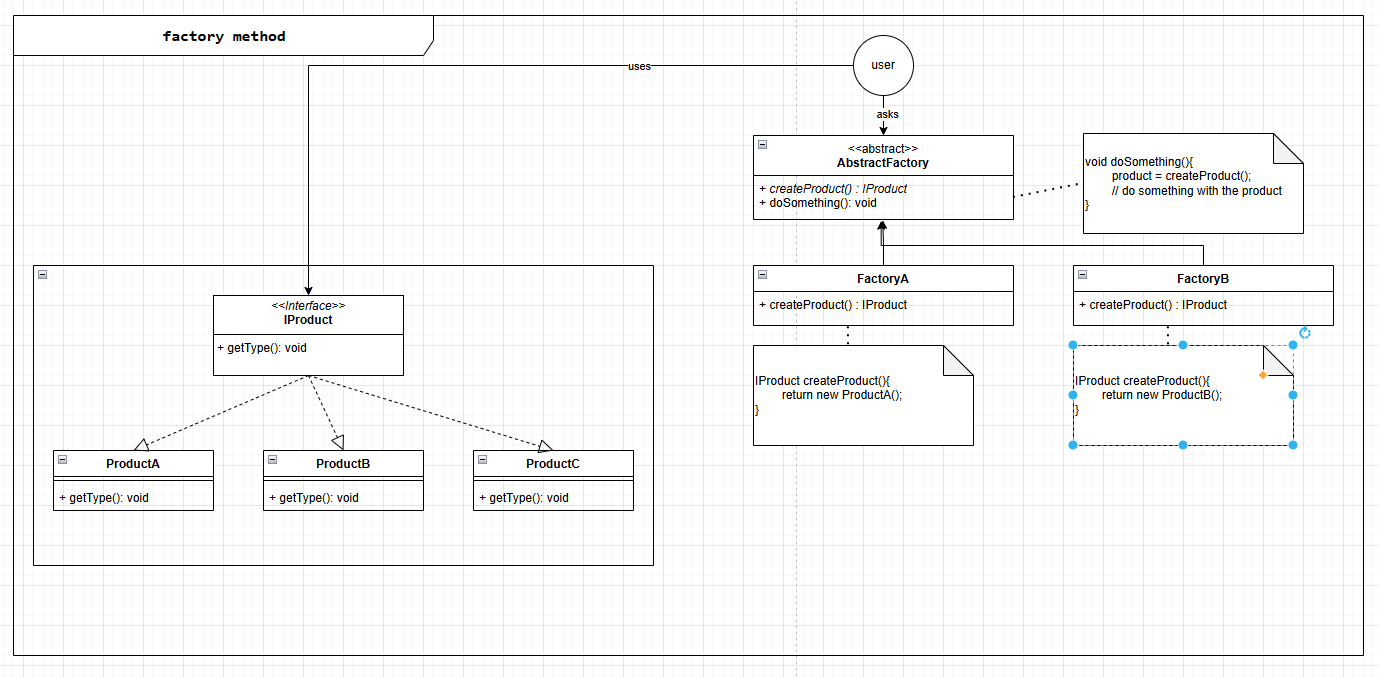
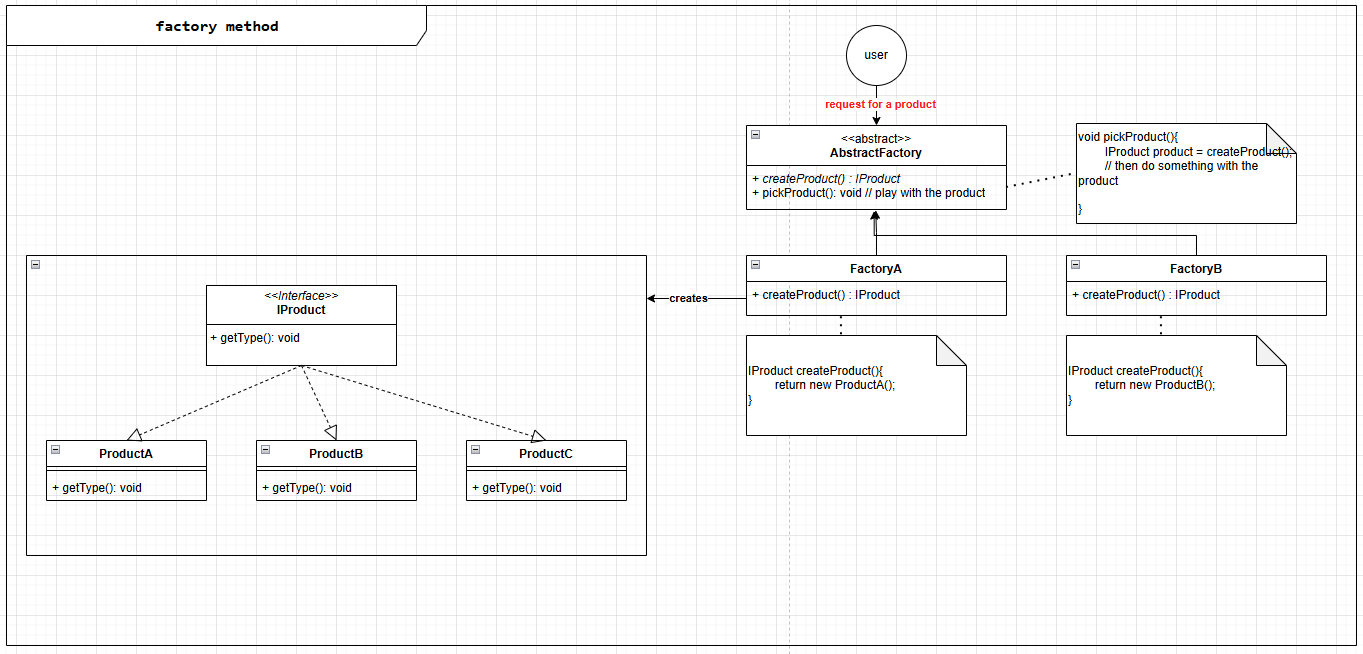
update java design patterns

diff --git a/content/posts/java-design-pattern.md b/content/posts/java-design-pattern.md
@@ -177,7 +177,7 @@ package design.patterns.factory.method;
 public abstract class AbstractFactory {
 	public abstract IProduct createProduct();
 	
-	public void doSomething() {
+	public void pickProduct() {
 		IProduct product = createProduct();
 		System.out.println("Do something with" + product.getType());
 	}
@@ -223,14 +223,12 @@ public class MainTestFactory {
 
 	public static void main(String[] args) {
 		AbstractFactory factoryA = new FactoryA();
-		factoryA.doSomething();
-		
-		AbstractFactory factoryB = new FactoryB();
-		factoryB.doSomething();
-		
-		AbstractFactory factoryC = new FactoryC();
-		factoryC.doSomething();
-				
+		IProduct productA = factoryA.createProduct();
+		factoryA.pickProduct();
+
+		AbstractFactory factoryA1 = new FactoryB();
+		IProduct productA1 = factoryA1.createProduct();
+		factoryA1.pickProduct();
 	}
 
 }
